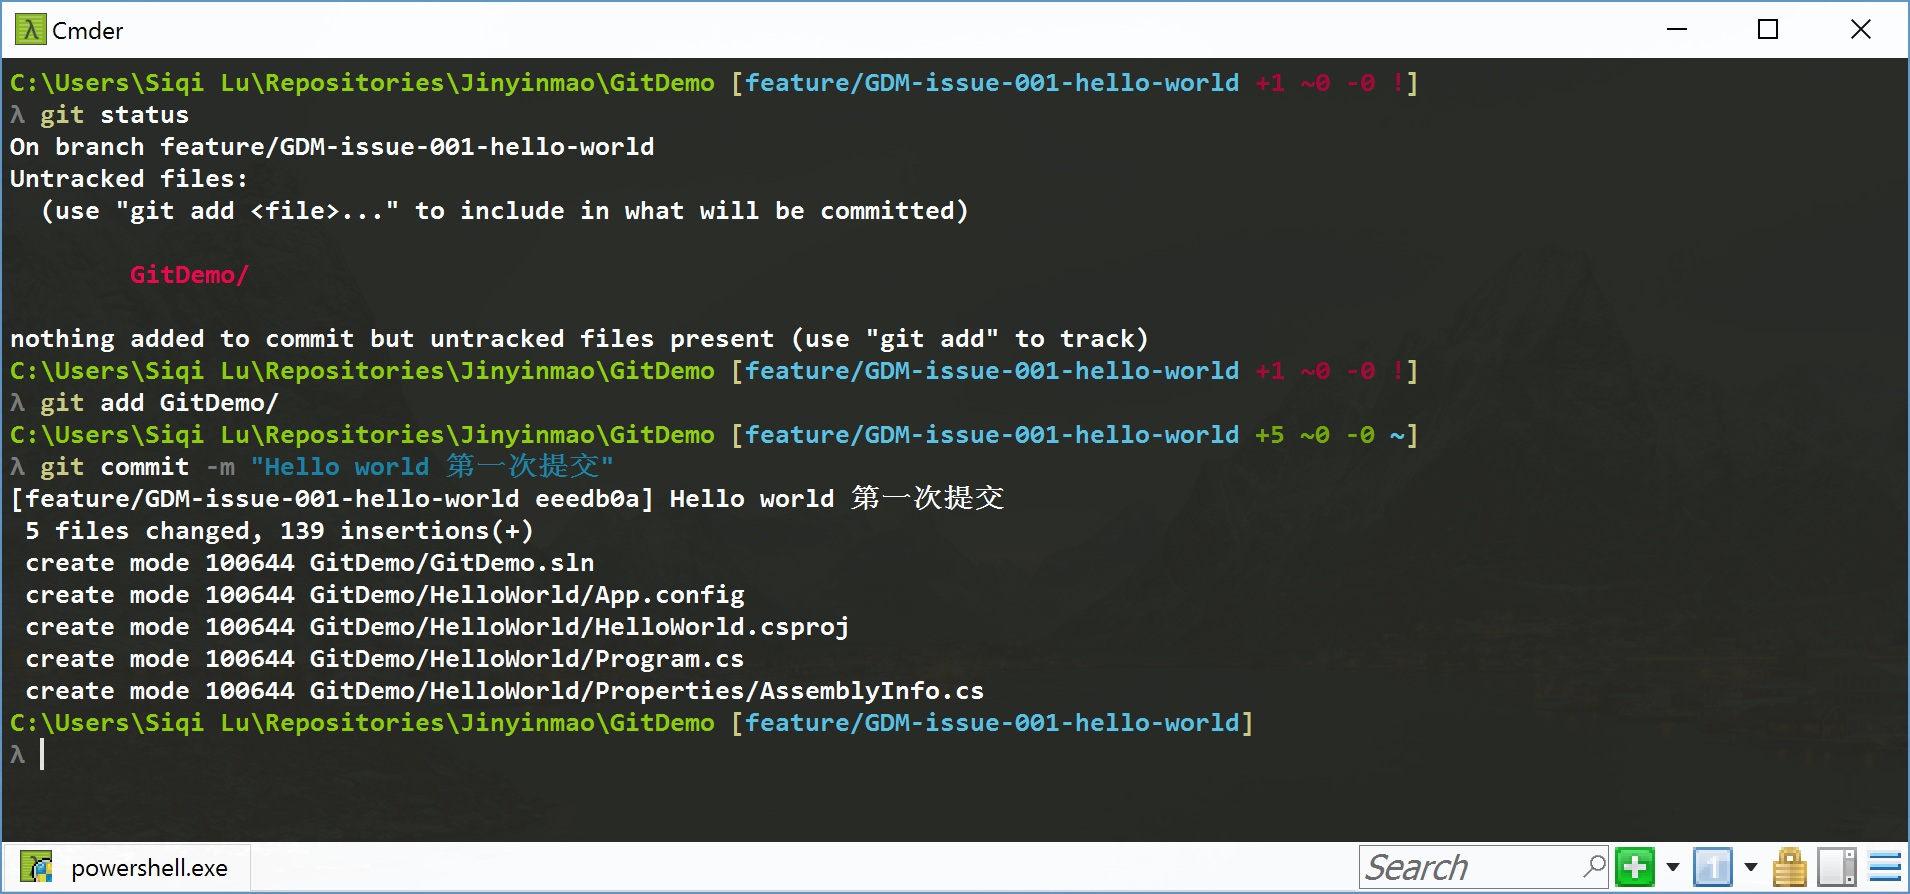
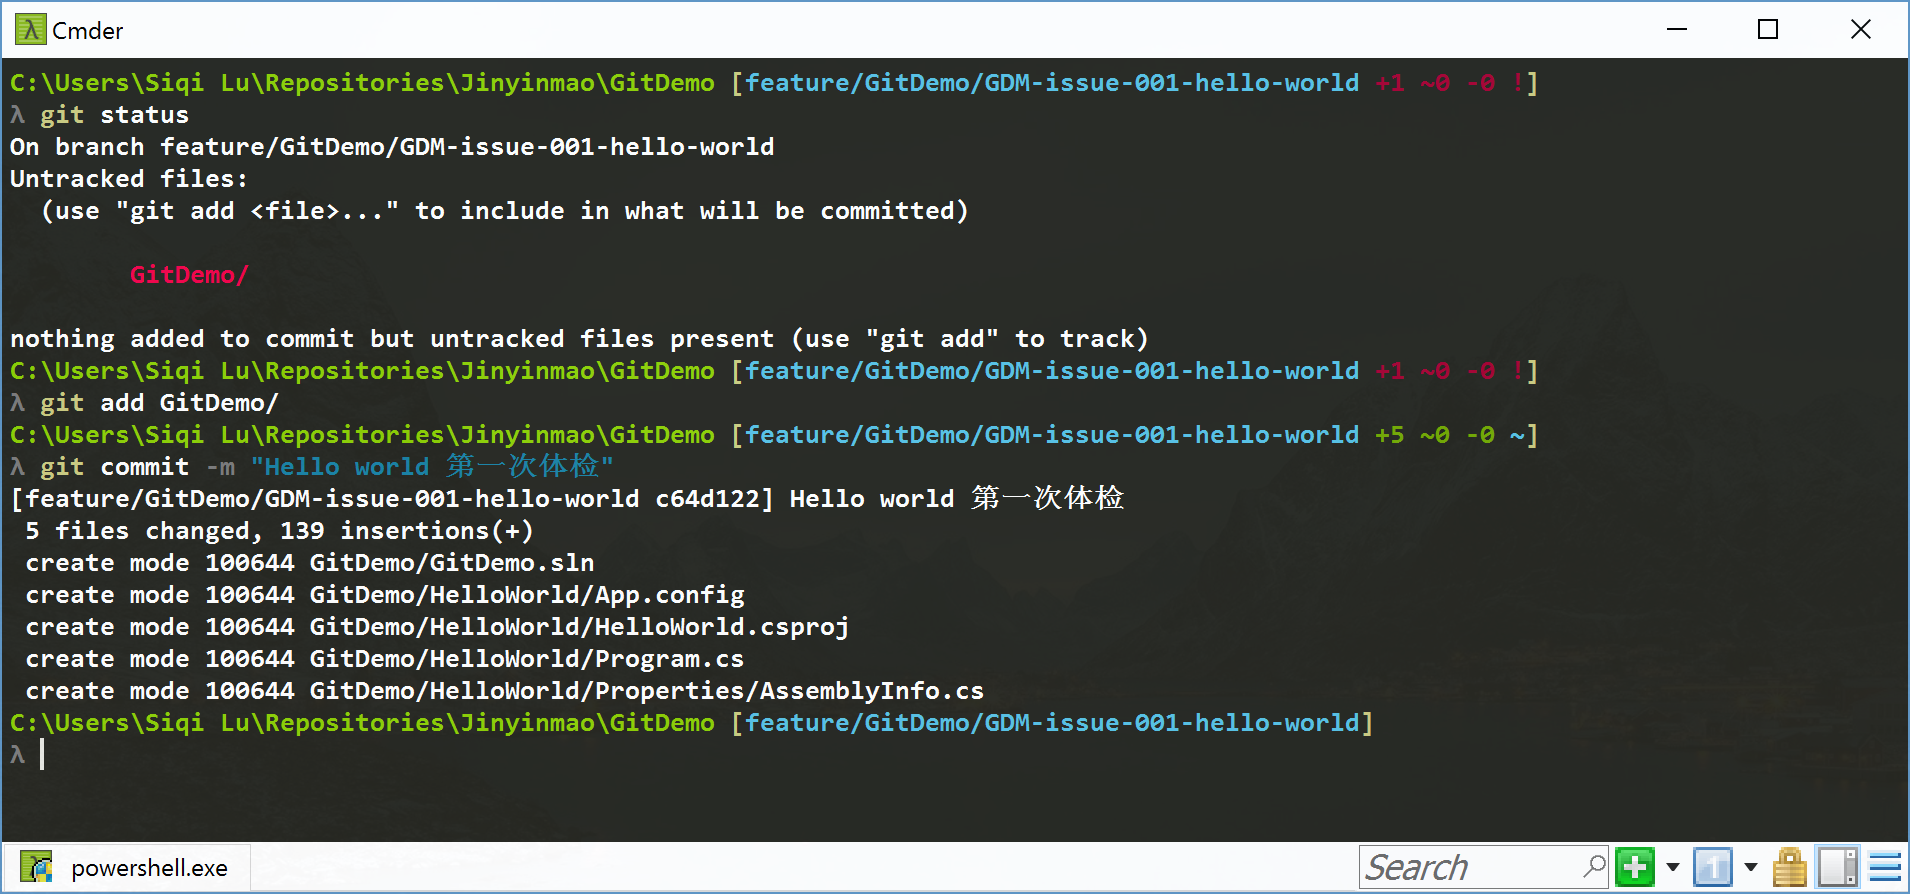
修改示例中的分之名称格式

diff --git a/articles/git/git-workflow.md b/articles/git/git-workflow.md
@@ -166,7 +166,7 @@ Git 的工作流的核心理念是所有的功能开发(feature)、缺陷修补(
 
 > 注意区分概念。
 
-在工作中，如果需要开发新功能或者有新的代码提交，不能直接在私有代码库的公共分支上进行开发或者变更提交，即不能在本地的master、dev或者其他公共分支上提交。而是应该由开发人员创建一个新的功能分支进行开发。新分支的创建往往对应着开发人员开始解决某一任务项，功能分支应该具有描述性的名字并且分支名中只能包含 ASCII 字符， 功能分支的命名应该包含2部分，并且按照 ```<feature branch type>/<feature branch name>``` 的格式命名。比较推荐的分支名可以是 feature/animated-menu-items 或者 bugfix/issue-#1061，可以透过分支名清晰地获知分支的目的、对应的工作和相关的资源。
+在工作中，如果需要开发新功能或者有新的代码提交，不能直接在私有代码库的公共分支上进行开发或者变更提交，即不能在本地的master、dev或者其他公共分支上提交。而是应该由开发人员创建一个新的功能分支进行开发。新分支的创建往往对应着开发人员开始解决某一任务项，功能分支应该具有描述性的名字并且分支名中只能包含 ASCII 字符， 功能分支的命名应该包含2部分，并且按照 ```<feature branch type>/<project name>/<feature branch name>``` 的格式命名（如果项目不是多项目共享 repository 的模式，则不需要在分支名称中包含 project name）。比较推荐的分支名可以是 feature/GieDemo/animated-menu-items 或者 bugfix/issue-#1061，可以透过分支名清晰地获知分支的目的、对应的工作和相关的资源。
 
 >**Note:**
 
@@ -200,22 +200,22 @@ Git 的工作流的核心理念是所有的功能开发(feature)、缺陷修补(
 
     ![Mary 创建新分支][m7] 
 
-    在Mary开发新功能的代码之前，她首先需要创建一个新的独立分支，她应该使用如下命令创建分支，其中功能分支名为feature/GDM-issue-001-hello-world，表明该分支是针对GDM项目的001任务的功能开发：
+    在Mary开发新功能的代码之前，她首先需要创建一个新的独立分支，她应该使用如下命令创建分支，其中功能分支名为feature/GitDemo/GDM-issue-001-hello-world，表明该分支是针对GitDemo项目的GDM-issue-001任务的功能开发：
 
     ```bash
-        git checkout -b feature/GDM-issue-001-hello-world dev
+        git checkout -b feature/GitDemo/GDM-issue-001-hello-world dev
     ```
 
     或者（其中 GitDemo 是项目的公共开发分支）：
 
     ```bash
-        git checkout -b feature/GDM-issue-001-hello-world GitDemo
+        git checkout -b feature/GitDemo/GDM-issue-001-hello-world GitDemo
     ```
 
     实际操作情况应该和下图类似：
     ![创建功能分支的图示][m8]
 
-    通过以上命令可以将当前 git 工作区切换到 feature/GDM-issue-001-hello-world 分支上，而 -b 操作符表示当需要的分支不存在时则基于 GitDemo 分支创建新分支。在这个分支上可以添加新代码、修改缺陷、暂存变更、提交变更，在这个独立的分支上可以提交任意多的提交，但是需要注意所有的代码变动和提交必需是聚焦在该分支对应的新功能上，不能随意修改继承来的老代码，否则会因为对原有的代码库冲击过大，而合并的时候非常困难。
+    通过以上命令可以将当前 git 工作区切换到 feature/GitDemo/GDM-issue-001-hello-world 分支上，而 -b 操作符表示当需要的分支不存在时则基于 GitDemo 分支创建新分支。在这个分支上可以添加新代码、修改缺陷、暂存变更、提交变更，在这个独立的分支上可以提交任意多的提交，但是需要注意所有的代码变动和提交必需是聚焦在该分支对应的新功能上，不能随意修改继承来的老代码，否则会因为对原有的代码库冲击过大，而合并的时候非常困难。
 
     ```bash
         git status
@@ -235,7 +235,7 @@ Git 的工作流的核心理念是所有的功能开发(feature)、缺陷修补(
     Mary 由于开会或者吃午饭需要暂时离开工作，在她离开之前，最好将手头正在开发的功能分支代码推送到中央代码库中，防止该代码分支丢失。如果Mary是和其他同事一起开发此功能，她就需要经常将该分支推送到中央代码库以和其他同事协作。
 
     ```bash
-        git push -u origin feature/GDM-issue-001-hello-world
+        git push -u origin feature/GitDemo/GDM-issue-001-hello-world
     ```
     
     实际操作情况应该和下图类似：
@@ -314,7 +314,7 @@ Git 的工作流的核心理念是所有的功能开发(feature)、缺陷修补(
      
      ```bash
         git checkout GitDemo
-        git merge feature/GDM-issue-001-hello-world 
+        git merge feature/GitDemo/GDM-issue-001-hello-world 
         git push origin GitDemo
      ```
     实际操作情况应该和下图类似：
@@ -329,11 +329,11 @@ Git 的工作流的核心理念是所有的功能开发(feature)、缺陷修补(
 
 - 父分支: 公共开发分支，develop
 - 目标分支: 公共开发分支，develop
-- 命名规则: ```feature/<branch name>```
+- 命名规则: ```feature/<branch name>``` 或者 ```feature/<project name>/<branch name>```
 
 ![git-feature-branches][m23]
 
-每一个新功能的开发，都应该创建一个独立的分支，分支名称应该符合规则 ```feature/<branch name>``` 并且推送到中央代码库进行备份以及团队协作。用于功能开发的分支应该使用公共开发分支作为它的父分支，即分支创建的时候，应该以dev或者团队指定的公共开发分支作为代码基线。当一个用于功能开发的功能分支经过评审后应该合并进公共开发分支。
+每一个新功能的开发，都应该创建一个独立的分支，分支名称应该符合规则 ```feature/<branch name>``` 或者 ```feature/<project name>/<branch name>``` 并且推送到中央代码库进行备份以及团队协作。用于功能开发的分支应该使用公共开发分支作为它的父分支，即分支创建的时候，应该以dev或者团队指定的公共开发分支作为代码基线。当一个用于功能开发的功能分支经过评审后应该合并进公共开发分支。
 
 >**Note:**
 
@@ -343,7 +343,7 @@ Git 的工作流的核心理念是所有的功能开发(feature)、缺陷修补(
 
 - 父分支: 公共开发分支，develop
 - 目标分支: 公共开发分支，develop
-- 命名规则: ```bugfix/<branch name>```
+- 命名规则: ```bugfix/<branch name>``` 或者 ```bugfix/<project name>/<branch name>```
 
 每一个缺陷的修复也同样应该在独立的功能分支中进行，除创建的分支名称规则不同，应该为 ```bugfix/<branch name>```之外 ，其余和用于功能开发的分支使用方法一致。
 
@@ -353,13 +353,13 @@ Git 的工作流的核心理念是所有的功能开发(feature)、缺陷修补(
 
 - 父分支: 公共开发分支，develop
 - 目标分支: 公共发布分支，master 和 公共开发分支，develop
-- 命名规则: ```release/<branch name>```
+- 命名规则: ```release/<branch name>``` 或者 ```release/<project name>/<branch name>```
 
 ![git-release-branches][m24]
 
 一旦开发完成足够的功能，并且代码均经过评审和开发阶段自测，则可以准备进行版本发布。在进行发布准备之前，一般已经将现有的 ```Feature branches``` 和 ```Bugfix branches``` 进行了合并。在这个分支中，团队主要完成release notes的编写、部署文档的编写、编译脚本的编写、还要为该版本创建一个合适的版本号。完成这些工作之后，可以将该分支推送到中央代码库中，并且使用持续集成工具（编译服务器）进行发布包的创建。
 
-使用三级版本号，即 x.y.z 版本号，每次进行发布，新开 ```Release branch``` 则递增第二级版本号，即 1.3.9 到 1.4.1。而在一次发布准备中往往需要进行多次编译尝试和打包，可以每次编译和打包递增第三级版本号，即 1.4.5 到 1.4.6。只有成功完成生产发布，才递增第一级版本号，即 1.4.6 到 2.0.1。
+使用三级版本号，即 x.y.z 版本号，每次进行发布，新开 ```Release branch``` 则递增第二级版本号，即 1.3.9 到 1.4.1。而在一次发布准备中往往需要进行多次编译尝试和打包，可以每次编译和打包递增第三级版本号，即 1.4.5 到 1.4.6。只有经过较大业务变更，才递增第一级版本号，即 1.4.6 到 2.0.1。
 
 成功打包发布到测试环境后，需要将发布准备分支合并到公共发布分支和公共开发分支。在准备发布的过程中，将停止对其他功能分支的 ```pull request``` 处理，防止发布后的代码合并进公共分支会出现冲突的情况。
 
@@ -373,8 +373,8 @@ Git 的工作流的核心理念是所有的功能开发(feature)、缺陷修补(
         git checkout GitDemo
         git pull origin GitDemo
         git merge GitDemo-Release
-        git checkout -b release/GDM-issue-010-version-1.4 GitDemo
-        git push -u origin release/GDM-issue-010-version-1.4
+        git checkout -b release/GitDemo/GDM-issue-010-version-1.4 GitDemo
+        git push -u origin release/GitDemo/GDM-issue-010-version-1.4
     ```
 
 2.  进行发布准备工作；
@@ -382,16 +382,16 @@ Git 的工作流的核心理念是所有的功能开发(feature)、缺陷修补(
     ```bash
         git add <some-file>
         git commit -m "commit message"
-        git push -u origin release/GDM-issue-010-version-1.4
+        git push -u origin release/GitDemo/GDM-issue-010-version-1.4
     ```  
 
 3.  使用 [```git tag```][19] 为代码库添加版本；
 
     ```bash
-        git checkout release/GDM-issue-010-version-1.4
+        git checkout release/GitDemo/GDM-issue-010-version-1.4
         git pull origin GitDemo
-        git tag -a <project name>@<version>
-        git push origin <project name>@<version> release/GDM-issue-010-version-1.4
+        git tag <project name>@<version> -m "Version <project name>@<version>"
+        git push origin <project name>@<version> release/GitDemo/GDM-issue-010-version-1.4
     ```
 4.  将分支推送到编译服务器上的 git 仓库，尝试编译并且打出版本包；
 
@@ -402,11 +402,11 @@ Git 的工作流的核心理念是所有的功能开发(feature)、缺陷修补(
     ```bash
         git checkout GitDemo-Release
         git pull origin GitDemo-Release
-        git merge release/GDM-issue-010-version-1.4
+        git merge release/GitDemo/GDM-issue-010-version-1.4
         git push origin GitDemo-Release
         git checkout GitDemo
         git pull origin GitDemo
-        git merge release/GDM-issue-010-version-1.4
+        git merge release/GitDemo/GDM-issue-010-version-1.4
         git push origin GitDemo
     ```
     
@@ -414,7 +414,7 @@ Git 的工作流的核心理念是所有的功能开发(feature)、缺陷修补(
 
 - 父分支: 公共发布分支中的某一版本
 - 目标分支: 公共发布分支，master 和 公共开发分支，develop
-- 命名规则: ```hotfix/<branch name>```
+- 命名规则: ```hotfix/<branch name>``` 或者 ```hotfix/<project name>/<branch name>```
 
 >**Note:**
 
@@ -427,7 +427,7 @@ Git 的工作流的核心理念是所有的功能开发(feature)、缺陷修补(
 1.  从公共发布分支中检出特定版本的代码（比如是针对1.4.1版本的hotfix）：
 
     ```bash
-        git checkout -b hotfix/GDM-issue-010-version-1.4.1 <project name>@<version>
+        git checkout -b hotfix/GitDemo/GDM-issue-010-version-1.4.1 <project name>@<version>
     ```
 
 2.  完成 hotfix 的开发工作；
@@ -435,7 +435,7 @@ Git 的工作流的核心理念是所有的功能开发(feature)、缺陷修补(
 3.  使用 [```git tag```][19] 为代码库更新版本；
     ```bash
         git tag -a <project name>@<new version>-hotfix
-        git push origin <project name>@<new version>-hotfix hotfix/GDM-issue-010-version-1.4.1  
+        git push origin <project name>@<new version>-hotfix hotfix/GitDemo/GDM-issue-010-version-1.4.1  
     ```
 
 4.  将分支推送到编译服务器上的 git 仓库，尝试编译并且打出版本包；
@@ -447,11 +447,11 @@ Git 的工作流的核心理念是所有的功能开发(feature)、缺陷修补(
     ```bash
         git checkout GitDemo-Release
         git pull origin GitDemo-Release
-        git merge hotfix/GDM-issue-010-version-1.4.1
+        git merge hotfix/GitDemo/GDM-issue-010-version-1.4.1
         git push origin GitDemo-Release
         git checkout GitDemo
         git pull origin GitDemo
-        git merge hotfix/GDM-issue-010-version-1.4.1
+        git merge hotfix/GitDemo/GDM-issue-010-version-1.4.1
         git push origin GitDemo
     ```
     
@@ -473,7 +473,7 @@ Git 的工作流的核心理念是所有的功能开发(feature)、缺陷修补(
 [Workflow]: #workflow
 
 <!-- Links -->
-[1]: ./git-command-git-init..md
+[1]: ./git-command-git-init.md
 [2]: ./git-file-gitignore.md
 [3]: ./git-file-readme.md
 [4]: https://github.com/github/gitignore
@@ -504,7 +504,7 @@ Git 的工作流的核心理念是所有的功能开发(feature)、缺陷修补(
 [m5]: ./media/git-workflow/git-clone.png
 [m6]: ./media/git-workflow/git-feature-branch.png
 [m7]: ./media/git-workflow/example-git-create-feature-branch.png
-[m8]: ./media/git-workflow/example-git-create-feature-branch2.png
+[m8]: ./media/git-workflow/example-git-create-feature-branch-2.png
 [m9]: ./media/git-workflow/example-feature-branch-first-commit.png
 [m10]: ./media/git-workflow/example-feature-branch-first-commit-codes.png
 [m11]: ./media/git-workflow/example-go-to-lunch.png
